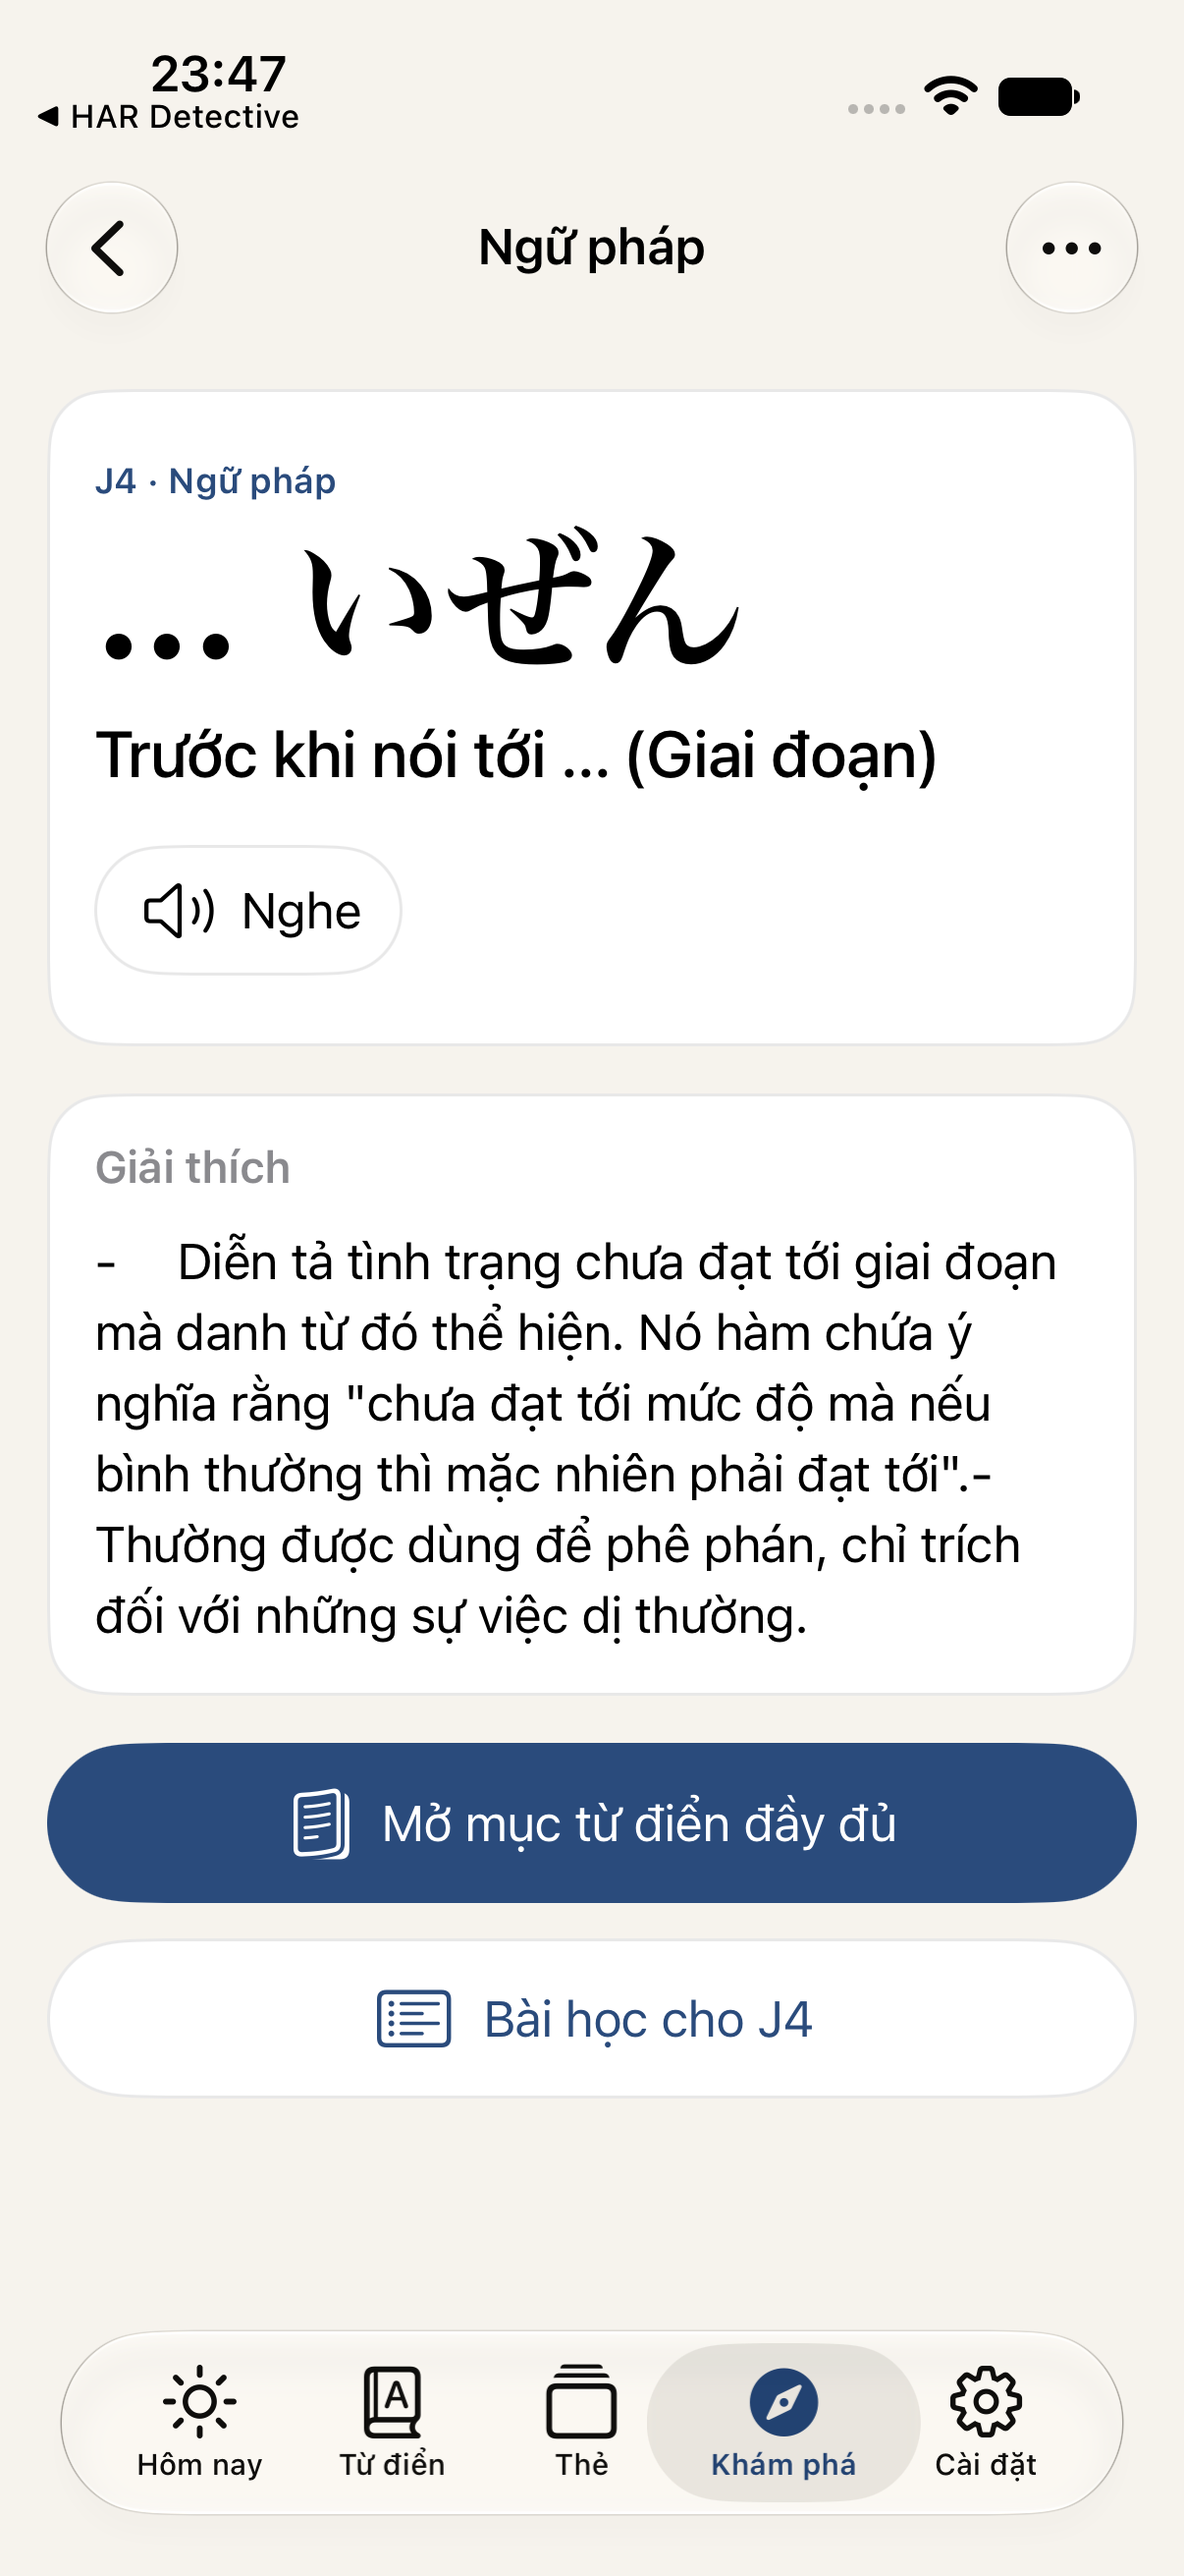
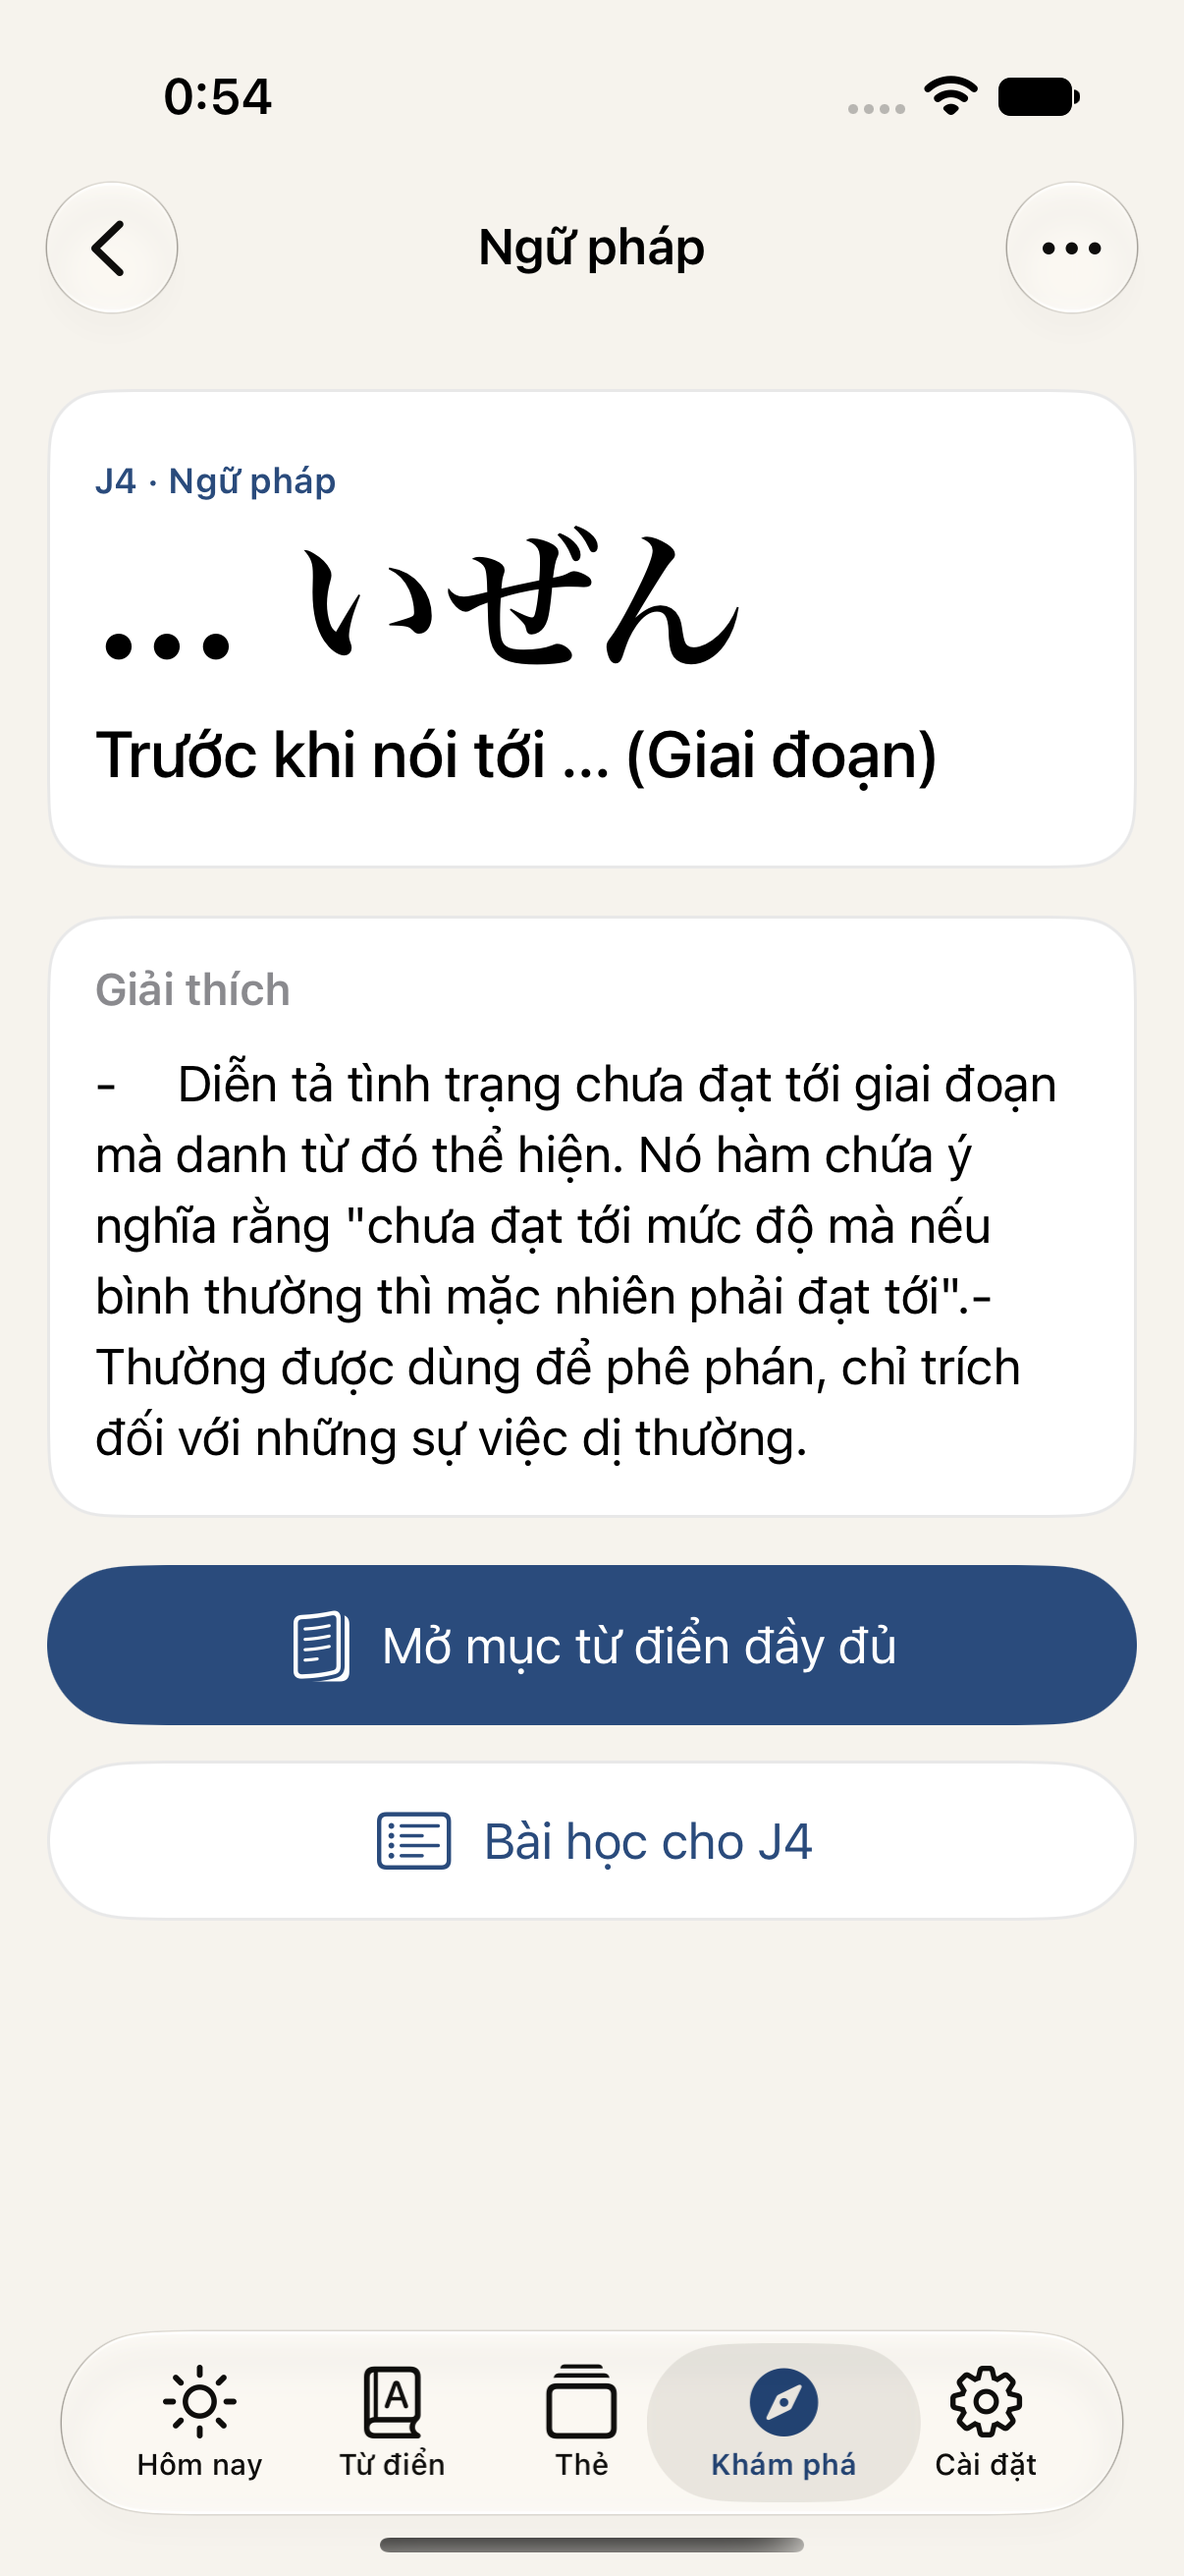
fix(level-entry-detail): load cold Dictionary tab on lookup and align TTS with DictionaryEntry

diff --git a/FlashcardAppTests/LevelEntryDetailPresenterTests.swift b/FlashcardAppTests/LevelEntryDetailPresenterTests.swift
@@ -1,3 +1,5 @@
+import RxSwift
+import UIKit
 import XCTest
 @testable import FlashcardApp
 
@@ -166,6 +168,116 @@ final class LevelEntryDetailPresenterTests: XCTestCase {
         presenter.share()
         XCTAssertEqual(wireframe.sharedText, copied)
     }
+
+    func testVocabularySpeaksFirstReadingTokenAndGrammarDisablesListenForMetaPatterns() {
+        let vocab = LevelEntry(
+            id: validUUID,
+            kind: .vocabulary,
+            levelCode: "J5",
+            levelName: "J5",
+            title: "一日",
+            reading: "ついたち いちにち",
+            onyomi: nil,
+            kunyomi: nil,
+            shortMeaning: "mùng một",
+            explanations: [],
+            hasLessons: false
+        )
+        let speech = SpeechStub()
+        let vocabPresenter = LevelEntryDetailPresenter(entry: vocab, wireframe: LevelEntryDetailWireframeSpy(),
+                                                       speech: speech, hasJapaneseVoice: { true })
+        vocabPresenter.speak()
+        XCTAssertEqual(speech.spokenText, "ついたち", "Vocabulary TTS must speak the entry's first kana reading rather than an ambiguous kanji headword")
+
+        let grammar = LevelEntry(
+            id: validUUID,
+            kind: .grammar,
+            levelCode: "J4",
+            levelName: "J4",
+            title: "… いぜん",
+            reading: nil,
+            onyomi: nil,
+            kunyomi: nil,
+            shortMeaning: "Trước khi nói tới ...",
+            explanations: ["Diễn tả tình trạng chưa đạt tới giai đoạn."],
+            hasLessons: true
+        )
+        let grammarView = LevelEntryDetailViewSpy()
+        let grammarSpeech = SpeechStub()
+        let grammarPresenter = LevelEntryDetailPresenter(entry: grammar, wireframe: LevelEntryDetailWireframeSpy(),
+                                                         speech: grammarSpeech, hasJapaneseVoice: { true })
+        grammarPresenter.view = grammarView
+        grammarPresenter.viewDidLoad()
+        grammarPresenter.speak()
+
+        XCTAssertEqual(grammarView.rendered?.canSpeak, false, "Grammar meta-patterns like '… いぜん' must not offer TTS")
+        XCTAssertNil(grammarSpeech.spokenText)
+    }
+
+    func testCrossTabLookUpLoadsColdDictionaryTabBeforeEmittingQuery() throws {
+        let entry = LevelEntry(
+            id: validUUID,
+            kind: .vocabulary,
+            levelCode: "J4",
+            levelName: "J4 — Sơ trung cấp",
+            title: "あっ",
+            reading: "あっ",
+            onyomi: nil,
+            kunyomi: nil,
+            shortMeaning: "a!; ôi",
+            explanations: [],
+            hasLessons: false
+        )
+        let detailWireframe = LevelEntryDetailWireframe(entry: entry, level: nil)
+        let detailVC = detailWireframe.viewController
+        let todayNav = UINavigationController(rootViewController: detailVC)
+
+        let dictInteractor = ColdDictionaryInteractorSpy()
+        let dictVC = DictionaryViewController()
+        let dictPresenter = DictionaryPresenter(interactor: dictInteractor, wireframe: DummyDictionaryWireframe(), debounce: .milliseconds(0))
+        dictVC.presenter = dictPresenter
+        let dictNav = UINavigationController(rootViewController: dictVC)
+
+        let tabs = UITabBarController()
+        tabs.viewControllers = [todayNav, dictNav]
+        tabs.selectedIndex = MainTab.today.rawValue
+        XCTAssertFalse(dictVC.isViewLoaded, "Precondition: Dictionary tab view has not loaded before first visit")
+
+        detailVC.presenter.openDictionaryEntry()
+        let pushedEntryVC = try XCTUnwrap(todayNav.viewControllers.last as? DictionaryEntryViewController)
+        pushedEntryVC.presenter.lookUp("会議")
+        RunLoop.current.run(until: Date().addingTimeInterval(0.05))
+
+        XCTAssertEqual(tabs.selectedIndex, MainTab.dictionary.rawValue)
+        XCTAssertEqual(todayNav.viewControllers.count, 2, "Cross-tab lookup must preserve the source tab's navigation stack")
+        XCTAssertTrue(dictVC.isViewLoaded, "DictionaryViewController must load its view before PublishRelay query emission")
+        XCTAssertEqual(dictInteractor.searchedQueries, ["会議"])
+        XCTAssertEqual(dictInteractor.recordedQueries, ["会議"])
+    }
+}
+
+private final class ColdDictionaryInteractorSpy: DictionaryInteractorInterface {
+    var searchedQueries: [String] = []
+    var recordedQueries: [String] = []
+    var recentQueries: [String] { recordedQueries }
+    var recentItems: [DictionaryItem] { [] }
+    func search(_ query: String, type: DictionarySearchType, offset: Int) -> Single<[BJTSearchResultDTO]> {
+        searchedQueries.append(query)
+        return .just([])
+    }
+    func recordQuery(_ query: String) { recordedQueries.append(query) }
+    func removeQuery(_ query: String) {}
+    func clearQueries() {}
+    func removeItem(_ item: DictionaryItem) {}
+    func clearItems() {}
+}
+
+private final class DummyDictionaryWireframe: DictionaryWireframeInterface {
+    func showEntry(_ item: DictionaryItem) {}
+    func showSaved() {}
+    func showScanner() {}
+    func showVoice() {}
+    func showHandwriting() {}
 }
 
 private final class LevelEntryDetailViewSpy: LevelEntryDetailViewInterface {

diff --git a/FlashcardApp/Modules/LevelEntryDetail/LevelEntryDetailPresenter.swift b/FlashcardApp/Modules/LevelEntryDetail/LevelEntryDetailPresenter.swift
@@ -71,14 +71,21 @@ struct LevelEntry: Equatable {
     }
 
     /// Text sent to Japanese TTS when the learner taps Listen.
+    /// Matches `DictionaryEntry`: vocabulary prefers its kana reading, kanji speaks its first reading,
+    /// and grammar formulas (`… いぜん`, `N + について`) disable TTS instead of reading meta-notation aloud.
     var spokenText: String? {
         switch kind {
-        case .vocabulary, .grammar:
+        case .vocabulary:
+            if let reading = Self.clean(reading), let token = Self.firstSpokenToken(reading) {
+                return token
+            }
             return Self.clean(title)
         case .kanji:
             if let kun = Self.clean(kunyomi) { return Self.firstSpokenToken(kun) }
             if let on = Self.clean(onyomi) { return Self.firstSpokenToken(on) }
             return Self.clean(title)
+        case .grammar:
+            return nil
         }
     }
 
@@ -88,8 +95,8 @@ struct LevelEntry: Equatable {
     }
 
     private static func firstSpokenToken(_ readings: String) -> String? {
-        let token = readings.split(whereSeparator: { $0 == " " || $0 == "、" || $0 == "·" || $0 == "," }).first.map(String.init) ?? readings
-        let stripped = token.replacingOccurrences(of: ".", with: "").replacingOccurrences(of: "-", with: "")
+        let token = readings.split(whereSeparator: { $0.isWhitespace || $0 == "、" || $0 == "·" || $0 == "・" || $0 == "," || $0 == ";" }).first.map(String.init) ?? readings
+        let stripped = token.replacingOccurrences(of: ".", with: "").replacingOccurrences(of: "-", with: "").replacingOccurrences(of: "・", with: "")
         return clean(stripped)
     }
 }

diff --git a/FlashcardApp/Modules/LevelEntryDetail/LevelEntryDetailWireframe.swift b/FlashcardApp/Modules/LevelEntryDetail/LevelEntryDetailWireframe.swift
@@ -52,9 +52,13 @@ final class LevelEntryDetailWireframe: BaseWireframe<LevelEntryDetailViewControl
         tabs.selectedIndex = MainTab.dictionary.rawValue
         let target = controllers[MainTab.dictionary.rawValue]
         let nav = target as? UINavigationController
+        if nav?.presentedViewController != nil {
+            nav?.dismiss(animated: false)
+        }
         nav?.popToRootViewController(animated: false)
         let root = nav?.viewControllers.first ?? target
         if let dictionary = root as? DictionaryViewController {
+            dictionary.loadViewIfNeeded()
             dictionary.presenter.beginSearch(text)
         }
     }

diff --git a/FlashcardAppUITests/FlashcardAppUITests.swift b/FlashcardAppUITests/FlashcardAppUITests.swift
@@ -38,6 +38,9 @@ final class FlashcardAppUITests: XCTestCase {
         XCTAssertTrue(firstContent.waitForExistence(timeout: 15))
         firstContent.tap()
         XCTAssertTrue(app.scrollViews["level_entry_detail"].waitForExistence(timeout: 5))
+        XCTAssertTrue(app.staticTexts["level_entry_title"].exists)
+        XCTAssertTrue(app.buttons["level_entry_listen"].exists)
+        XCTAssertTrue(app.buttons["level_entry_open_dictionary"].exists)
         XCTAssertFalse(app.alerts.firstMatch.exists)
     }
 
